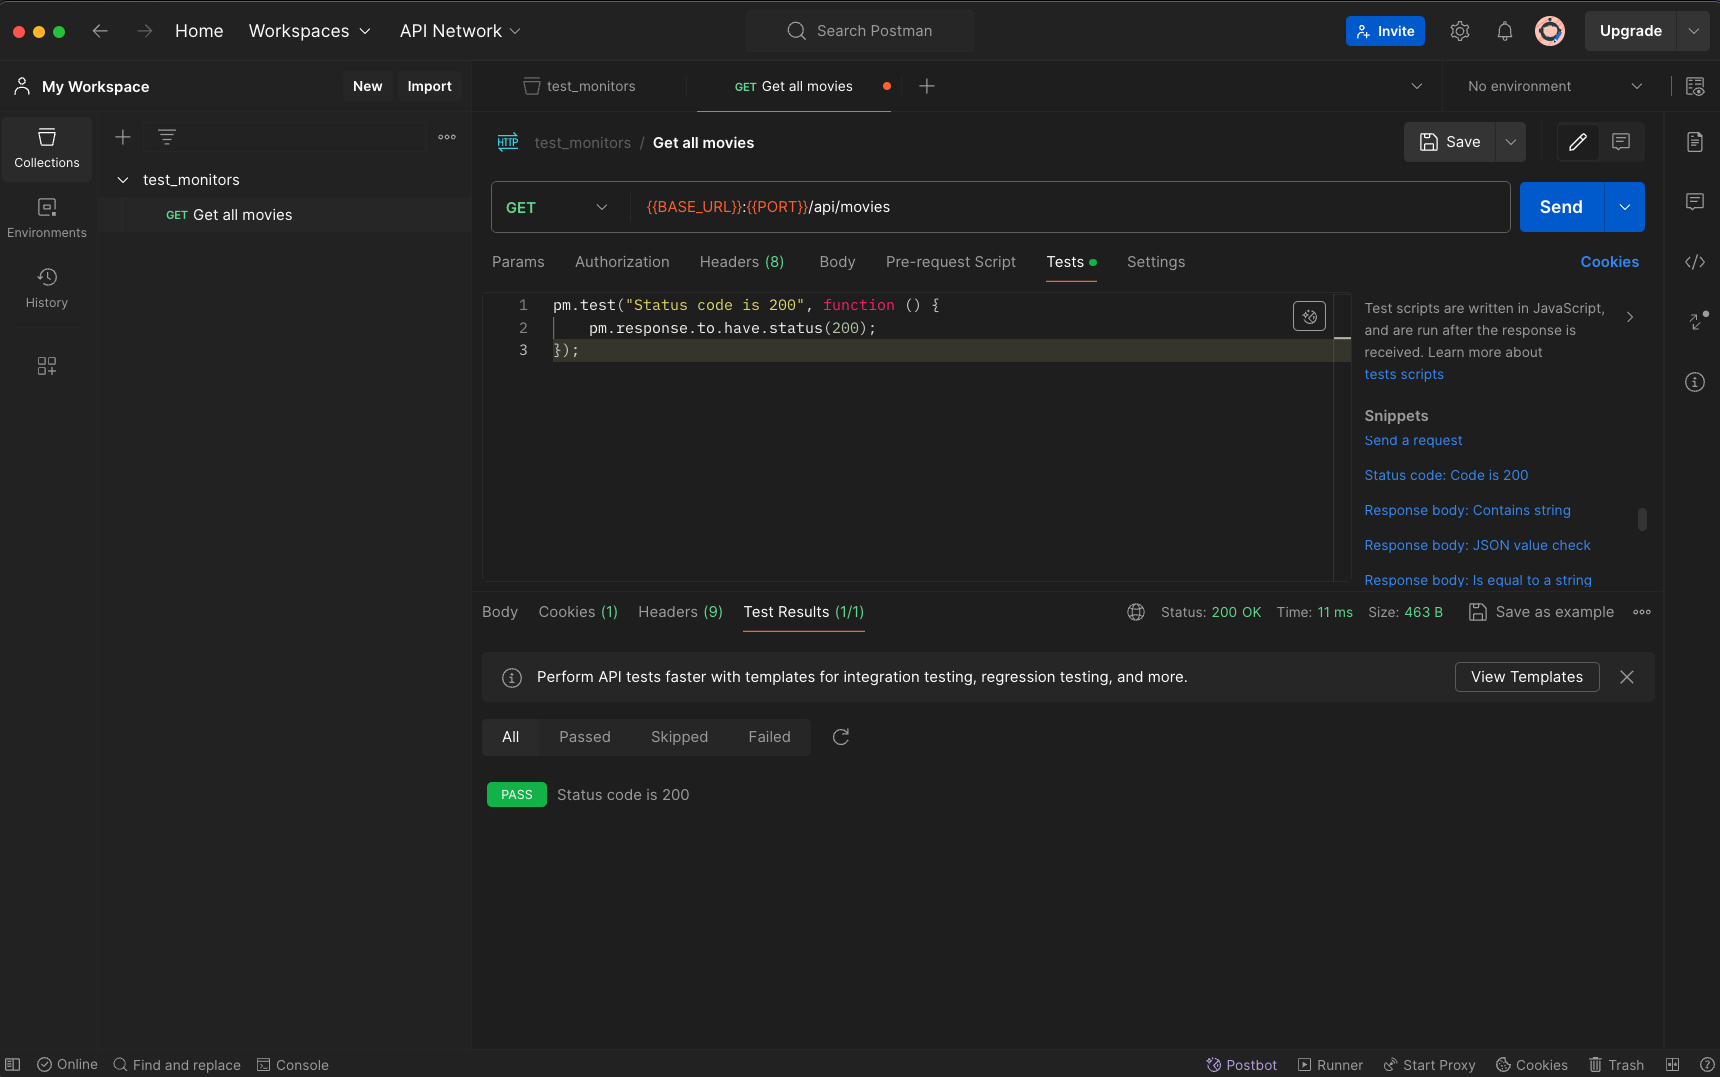
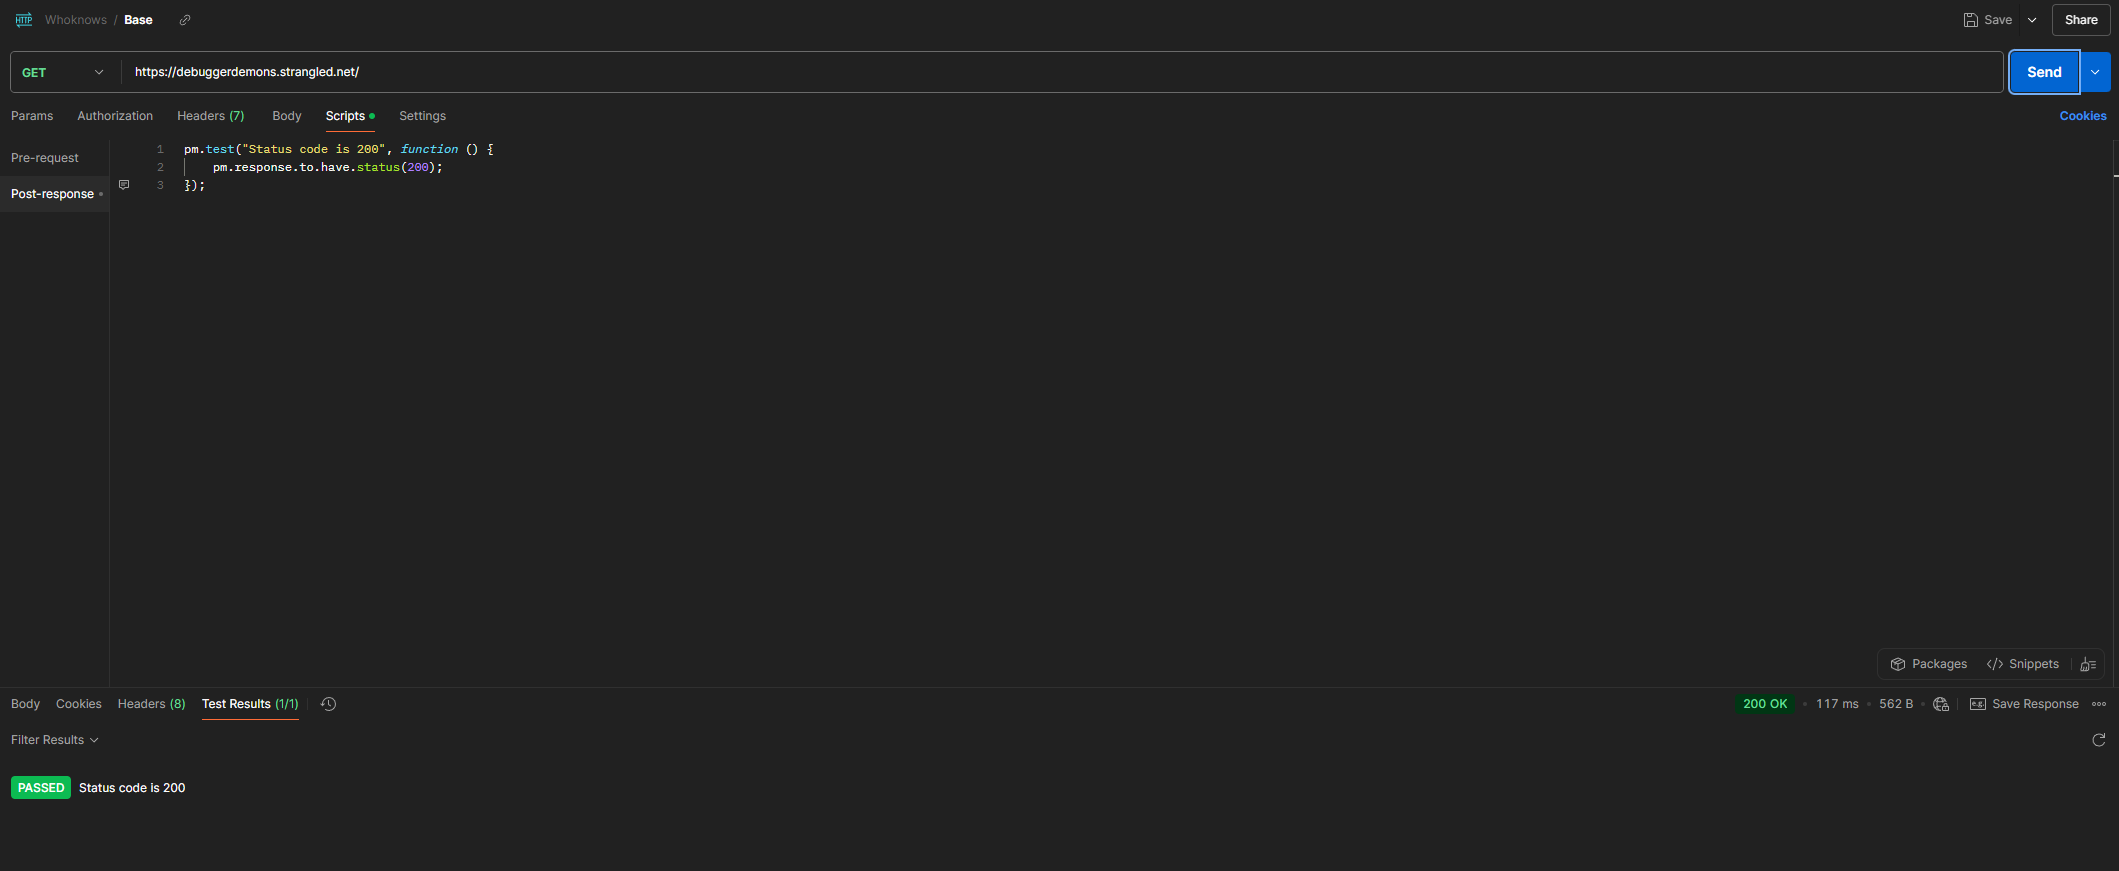
Removed old postman layout and added new layout

diff --git a/00._Course_Material/01._Assignments/05._Docker_The_Simulation/02._After/setup_postman_monitoring.md b/00._Course_Material/01._Assignments/05._Docker_The_Simulation/02._After/setup_postman_monitoring.md
@@ -8,7 +8,7 @@ Monitors will run in Postman Cloud and send you emails if the tests fail.
 
 ## Create collection
 
-You must create a collection in Postman first. A collection is a group of requests. 
+You must create a collection in Postman first. A collection is a group of requests.
 
 <img src="./assets_postman_monitoring/create_collection.png">
 
@@ -38,7 +38,7 @@ Highlight the URL and tool tip will pop up with a `Set as variable` button. Clic
 
 <img src="./assets_postman_monitoring/set_variables.png">
 
-Create a BASE_URL and PORT variable and set the scope to the collection. 
+Create a BASE_URL and PORT variable and set the scope to the collection.
 
 ---
 
@@ -54,14 +54,13 @@ Choose the `Variables` tab and edit the variables.
 
 ## Create tests
 
-On the request page, click on the `Tests` tab:
+On the request page, click on the `Post-response` in the `Scripts` tab:
 
 <img src="./assets_postman_monitoring/create_tests.png">
 
 You can optionally watch the API test segment of the video below to learn more:
 
-[![Postman Beginner's course](http://img.youtube.com/vi/VywxIQ2ZXw4/0.jpg)](https://youtu.be/VywxIQ2ZXw4?t=3772)
----
+## [![Postman Beginner's course](http://img.youtube.com/vi/VywxIQ2ZXw4/0.jpg)](https://youtu.be/VywxIQ2ZXw4?t=3772)
 
 ## Write a test
 
@@ -69,7 +68,7 @@ In the snippets on the right side select `Status code: Code is 200`;
 
 ```javascript
 pm.test("Status code is 200", function () {
-    pm.response.to.have.status(200);
+  pm.response.to.have.status(200);
 });
 ```
 
@@ -87,17 +86,17 @@ Send the request and select the `Test Result` tab in the lower bottom (the respo
 
 ```javascript
 pm.test("Status code is 200", function () {
-    pm.response.to.have.status(200);
+  pm.response.to.have.status(200);
 });
 
 pm.test("Response time is less than 200ms", function () {
-    pm.expect(pm.response.responseTime).to.be.below(200);
+  pm.expect(pm.response.responseTime).to.be.below(200);
 });
 
 pm.test("Response body is present", function () {
-    const body = pm.response.json();
-    pm.expect(body).to.include("data");
-    pm.expect(body.data).to.be.an("array");
+  const body = pm.response.json();
+  pm.expect(body).to.include("data");
+  pm.expect(body.data).to.be.an("array");
 });
 ```
 
@@ -143,7 +142,7 @@ Click on the `Run` button in the runner (bottom right).
 
 You can schedule a run to run at a specific time and send you emails if the tests fail.
 
-Postman cloud runs the tests for you and you don't have to setup a server. 
+Postman cloud runs the tests for you and you don't have to setup a server.
 
 <img src="./assets_postman_monitoring/schedule_run.png">
 
@@ -164,7 +163,7 @@ Or you could immediately role back in production in case of a failed test.
 
 ## Schedule CI/CD - II
 
-Click on `Configure command` and you will be able to get a snippet and instruction on how to add the code to your CI/CD pipeline. 
+Click on `Configure command` and you will be able to get a snippet and instruction on how to add the code to your CI/CD pipeline.
 
 <img src="./assets_postman_monitoring/copy_CICD_code.png"> -->
 
@@ -176,7 +175,7 @@ Click on `Configure command` and you will be able to get a snippet and instructi
 
 ## Enable Monitors
 
-Click on the icon below `history` in the left side and enable Monitors. 
+Click on the icon below `history` in the left side and enable Monitors.
 
 ---
 
@@ -212,4 +211,4 @@ Now that you have tried to create a monitor for a single test, you can consider 
 
 https://learning.postman.com/docs/tests-and-scripts/write-scripts/intro-to-scripts/
 
-As an example, if getting a status `200` for all requests is expected then you can put the test as a `Post-response` instead of pasting it onto each endpoint. 
+As an example, if getting a status `200` for all requests is expected then you can put the test as a `Post-response` instead of pasting it onto each endpoint.
